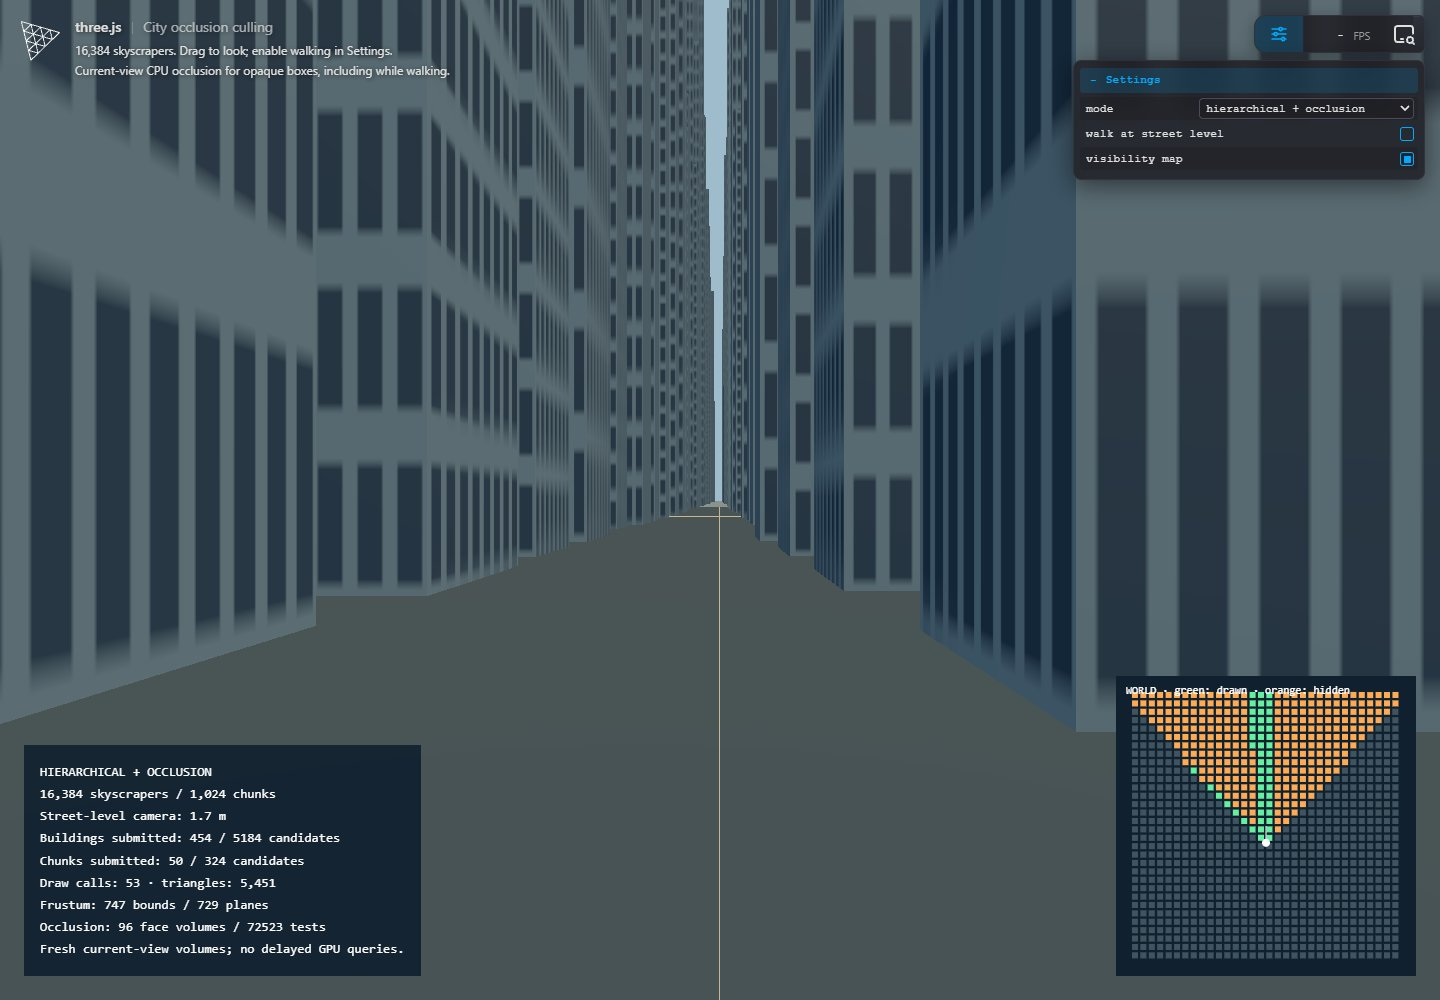
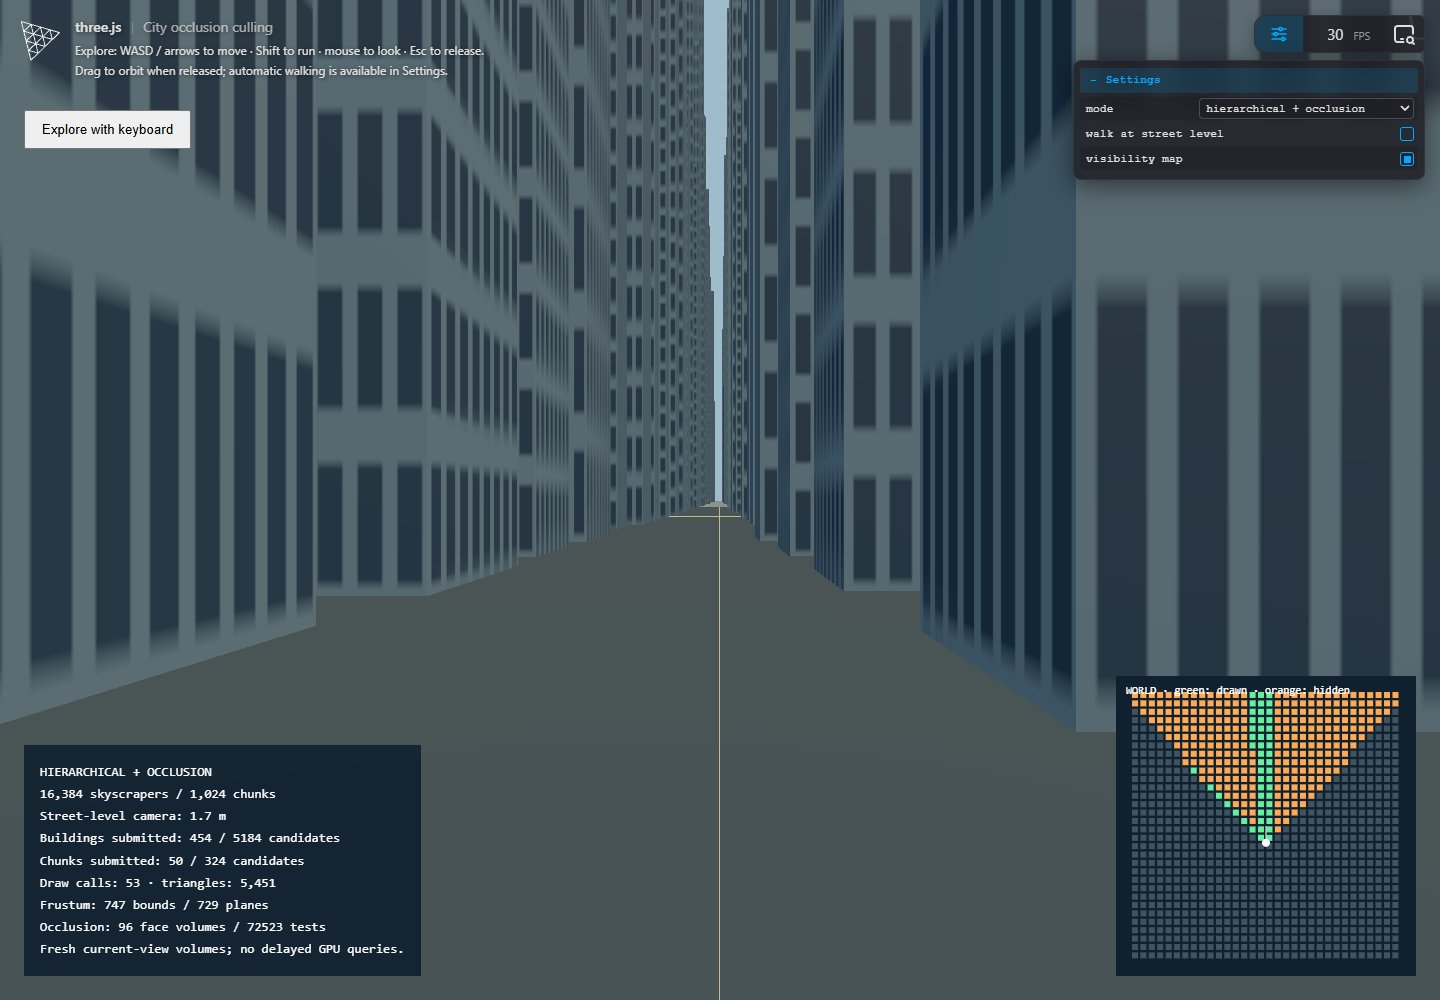
Add keyboard and mouse first-person city exploration

Changed region(s): [[0.0, 0.031, 0.3438, 0.155]]

diff --git a/examples/webgpu_culling_occlusion.html b/examples/webgpu_culling_occlusion.html
@@ -9,6 +9,7 @@
 		<style>
 			#readout { position: absolute; bottom: 24px; left: 24px; padding: 16px; background: #10202ee8; color: #fff; font: 13px/1.7 monospace; pointer-events: none; }
 			#map { position: absolute; bottom: 24px; right: 24px; width: 300px; height: 300px; }
+			#explore { position: absolute; top: 110px; left: 24px; padding: 10px 16px; cursor: pointer; }
 			@media (max-width: 700px) { #readout { left: 8px; bottom: 8px; font-size: 10px; padding: 8px; } #map { width: 180px; height: 180px; } }
 		</style>
 	</head>
@@ -16,8 +17,9 @@
 		<div id="info">
 			<a href="https://threejs.org/" target="_blank" rel="noopener" class="logo-link"></a>
 			<div class="title-wrapper"><a href="https://threejs.org/" target="_blank" rel="noopener">three.js</a><span>City occlusion culling</span></div>
-			<small>16,384 skyscrapers. Drag to look; enable walking in Settings.<br>Current-view CPU occlusion for opaque boxes, including while walking.</small>
+			<small>Explore: WASD / arrows to move · Shift to run · mouse to look · Esc to release.<br>Drag to orbit when released; automatic walking is available in Settings.</small>
 		</div>
+		<button id="explore" type="button">Explore with keyboard</button>
 		<div id="readout"></div>
 		<canvas id="map" width="300" height="300"></canvas>
 		<script type="importmap">
@@ -33,6 +35,7 @@
 		<script type="module">
 			import * as THREE from 'three/webgpu';
 			import { OrbitControls } from 'three/addons/controls/OrbitControls.js';
+			import { PointerLockControls } from 'three/addons/controls/PointerLockControls.js';
 			import { Inspector } from 'three/addons/inspector/Inspector.js';
 
 			const settings = { mode: 'hierarchical + occlusion', walk: false, overview: true };
@@ -58,6 +61,46 @@
 			controls.maxPolarAngle = Math.PI * 0.5;
 			controls.minDistance = 0.5;
 			controls.update();
+			const firstPerson = new PointerLockControls( camera, renderer.domElement );
+			const explore = document.getElementById( 'explore' );
+			const keys = new Set();
+			const movement = new THREE.Vector2();
+			const lookDirection = new THREE.Vector3();
+			let previousTime = 0;
+			explore.addEventListener( 'click', () => firstPerson.lock() );
+			firstPerson.addEventListener( 'lock', () => {
+
+				controls.enabled = false;
+				settings.walk = false;
+				camera.position.y = 1.7;
+				previousTime = performance.now();
+				explore.hidden = true;
+
+			} );
+			firstPerson.addEventListener( 'unlock', () => {
+
+				keys.clear();
+				camera.getWorldDirection( lookDirection );
+				controls.target.copy( camera.position ).addScaledVector( lookDirection, 80 );
+				controls.maxPolarAngle = Math.PI;
+				controls.enabled = true;
+				explore.hidden = false;
+
+			} );
+			document.addEventListener( 'keydown', event => {
+
+				if ( ! firstPerson.isLocked ) return;
+				if ( event.code === 'Escape' ) firstPerson.unlock();
+				if ( [ 'KeyW', 'KeyA', 'KeyS', 'KeyD', 'ArrowUp', 'ArrowLeft', 'ArrowDown', 'ArrowRight', 'ShiftLeft', 'ShiftRight' ].includes( event.code ) ) {
+
+					event.preventDefault();
+					keys.add( event.code );
+
+				}
+
+			} );
+			document.addEventListener( 'keyup', event => keys.delete( event.code ) );
+			window.addEventListener( 'blur', () => keys.clear() );
 
 			scene.add( new THREE.HemisphereLight( 0xc5e8ff, 0x625641, 3 ) );
 			const sunlight = new THREE.DirectionalLight( 0xffe1b0, 3 );
@@ -247,7 +290,23 @@
 
 			function animate( time = 0 ) {
 
-				if ( settings.walk ) {
+				const delta = Math.min( Math.max( ( time - previousTime ) / 1000, 0 ), 0.05 );
+				previousTime = time;
+				if ( firstPerson.isLocked ) {
+
+					movement.set(
+						Number( keys.has( 'KeyD' ) || keys.has( 'ArrowRight' ) ) - Number( keys.has( 'KeyA' ) || keys.has( 'ArrowLeft' ) ),
+						Number( keys.has( 'KeyW' ) || keys.has( 'ArrowUp' ) ) - Number( keys.has( 'KeyS' ) || keys.has( 'ArrowDown' ) )
+					).normalize();
+					const speed = keys.has( 'ShiftLeft' ) || keys.has( 'ShiftRight' ) ? 24 : 8;
+					camera.updateMatrix();
+					firstPerson.moveRight( movement.x * speed * delta );
+					firstPerson.moveForward( movement.y * speed * delta );
+					camera.position.y = 1.7;
+					camera.getWorldDirection( lookDirection );
+					controls.target.copy( camera.position ).addScaledVector( lookDirection, 80 );
+
+				} else if ( settings.walk ) {
 
 					const distance = time * 0.008 % 800;
 					const segment = Math.floor( distance / 200 ), t = distance % 200;
@@ -257,7 +316,7 @@
 
 				}
 
-				controls.update();
+				if ( ! firstPerson.isLocked ) controls.update();
 				camera.updateMatrixWorld();
 				projection.multiplyMatrices( camera.projectionMatrix, camera.matrixWorldInverse );
 				frustum.setFromProjectionMatrix( projection, renderer.coordinateSystem );

diff --git a/docs/occlusion-culling-research.md b/docs/occlusion-culling-research.md
@@ -83,6 +83,8 @@ The original experiment passed candidate-set assertions and ESLint. The initial 
 
 [webgpu_culling_occlusion.html](../examples/webgpu_culling_occlusion.html) replicates the seeded 32 by 32 chunk layout and binary hierarchy from [the sibling hierarchical-culling example](https://github.com/bhouston/three.js/blob/research-hierarchical-culling/examples/webgpu_culling_hierarchical.html). Each of 1,024 InstancedMesh chunks contains 16 buildings: 16,384 opaque box skyscrapers in total. Heights are increased to 40-160 m; the camera starts at 1.7 m with a 700 m far plane. Inspector controls select no culling, flat chunk frustum tests, hierarchical frustum tests, or hierarchy plus occlusion. Automatic walking follows four connected streets at eye level. A 2D overview shows candidate and surviving chunks without rendering the entire city in another GPU view.
 
+Click **Explore with keyboard** to enter first-person mode: WASD or arrows move, mouse looks, Shift runs and Esc releases the mouse. Movement is horizontal at 1.7 m, with normalized diagonal input and a capped frame delta. Unlocking restores orbit controls; entering first-person mode stops automatic walking. This is a walk-through research camera without building collision or jumping.
+
 The city replaces the earlier stationary-query demonstration, which remains available at [its historical commit](https://github.com/bhouston/three.js/blob/8964bfd0110fe26c28f0ffc964533e72cccb1788/examples/webgpu_culling_occlusion.html). This version uses **current-view CPU geometric occlusion**, not asynchronous GPU query results. For each of the nearest 48 candidate buildings, camera-facing opaque box faces define shadow volumes: four side planes through the camera and face edges, plus a plane behind the face. A chunk or building is rejected only when its entire AABB lies strictly inside all five positive half-spaces of one volume, using a 0.02 m margin. Faces intersecting the near plane and nearly coplanar camera/face configurations are skipped.
 
 The volumes are rebuilt every frame, so camera motion and turns need no stale-result recovery. Surviving instances are compacted within their original chunks; non-occlusion modes restore static instance matrices when necessary. The method is conservative for this exact solid-box geometry. An enclosing AABB of an irregular, hollow, displaced or transparent building is **not** a valid occluder. This is an application-specific experiment rather than a general Three.js occlusion API or a substitute for HZB. It does not combine multiple occluders to cover one bound, so some fully hidden objects can remain submitted.
